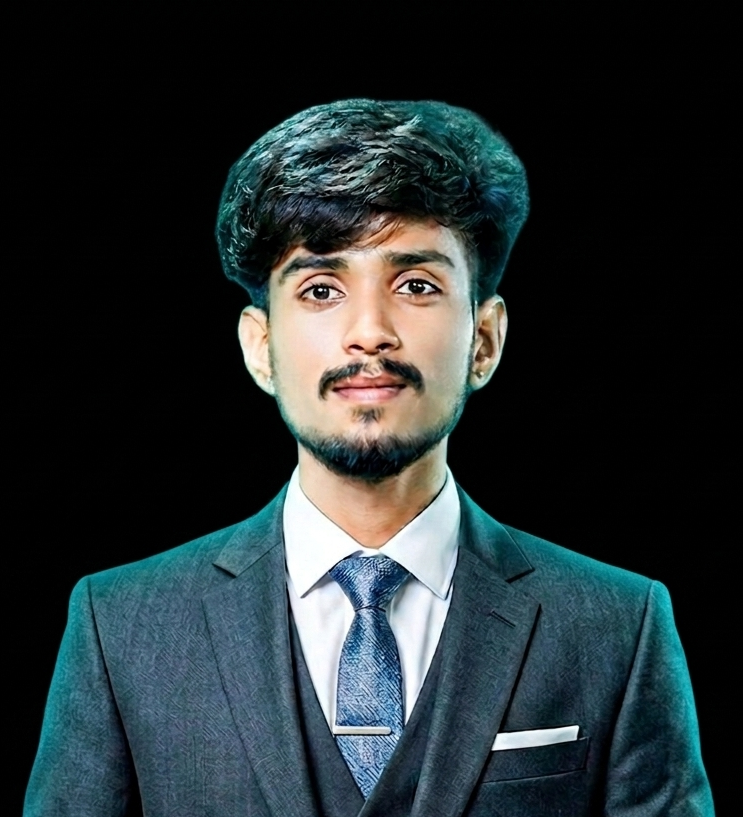
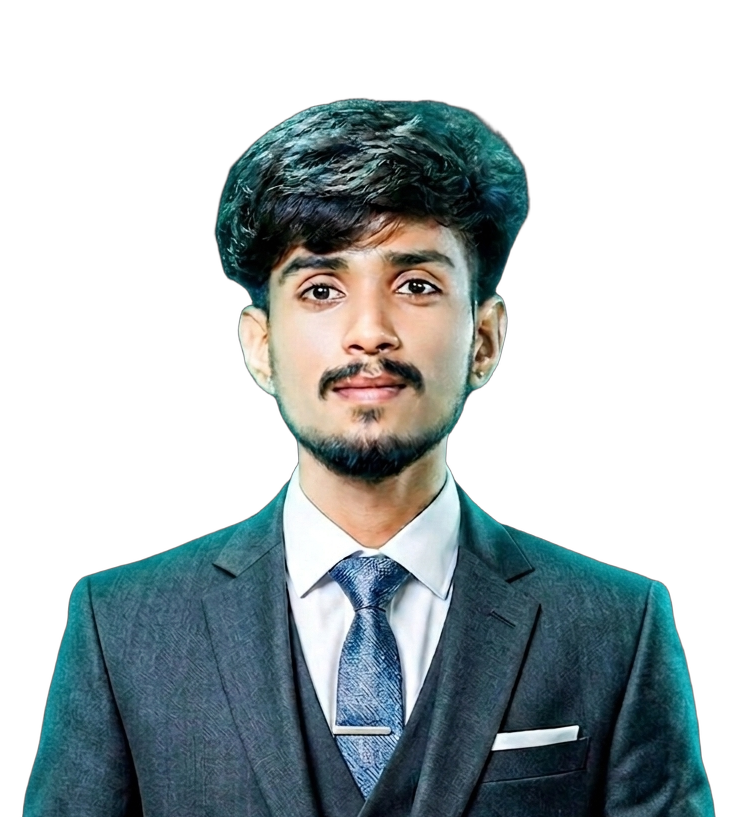
image bg remove

diff --git a/src/sections/Hero.jsx b/src/sections/Hero.jsx
@@ -3,8 +3,8 @@ import { Button } from "@/components/Button";
 import {
   ArrowRight,
   ChevronDown,
-  MessageCircle,
   Download,
+  Award,
 } from "lucide-react";
 import { FaSquareGithub } from "react-icons/fa6";
 import { FaLinkedin } from "react-icons/fa";
@@ -195,36 +195,47 @@ export const Hero = () => {
             </div>
           </div>
           {/* Right Column - Profile Image */}
-          <div className="relatice animate-fade-in animation-delay-300">
-            {/* Profile Image */}
-            <div className="relative max-w-md mx-auto">
-              <div
-                className="absolute inset-0 
-              rounded-3xl bg-gradient-to-br 
-              from-primary/30 via-transparent 
-              to-primary/10 blur-2xl animate-pulse"
-              />
-              <div className="relative glass rounded-3xl p-2 glow-border">
+          <div className="relative animate-fade-in animation-delay-300 flex justify-center items-center">
+            {/* Profile Image Container */}
+            <div className="relative w-full max-w-md mx-auto flex items-center justify-center">
+              {/* Ambient Glow Aura behind Harish */}
+              <div className="absolute w-[95%] h-[95%] rounded-full bg-gradient-to-tr from-primary/30 via-primary/10 to-transparent blur-3xl pointer-events-none -z-0 animate-pulse" />
+              <div className="absolute -inset-2 rounded-full bg-primary/10 blur-2xl pointer-events-none -z-0" />
+
+              {/* Cutout Image with seamless bottom fade into hero background */}
+              <div className="relative z-10 w-full flex justify-center">
                 <img
                   src="/harish-main.png"
                   alt="Harish Maru"
-                  className="w-full aspect-[4/5] object-cover rounded-2xl"
+                  className="w-full max-h-[520px] object-contain drop-shadow-[0_20px_40px_rgba(0,0,0,0.8)] drop-shadow-[0_0_35px_rgba(32,178,166,0.25)] hero-img-mask select-none pointer-events-none transition-transform duration-500 hover:scale-[1.02]"
                 />
+              </div>
 
-                {/* Floating Badge */}
-                <div className="absolute -bottom-4 -right-4 glass rounded-xl px-4 py-3 animate-float">
-                  <div className="flex items-center gap-3">
-                    <div className="w-3 h-3 bg-green-500 rounded-full animate-pulse" />
-                    <span className="text-sm font-medium">
-                      Available for work
-                    </span>
-                  </div>
+              {/* Right Side Badges - Clean, compact, and aligned at the bottom right of the image */}
+              <div className="absolute -right-2 sm:-right-6 bottom-3 sm:bottom-6 z-20 flex flex-col items-end gap-2">
+                {/* Available for Work Badge */}
+                <div className="glass rounded-xl px-3 py-1.5 border border-primary/30 shadow-[0_8px_20px_rgba(0,0,0,0.5)] animate-float backdrop-blur-md flex items-center gap-2">
+                  <span className="relative flex h-2 w-2">
+                    <span className="absolute inline-flex h-full w-full animate-ping rounded-full bg-emerald-400 opacity-75" />
+                    <span className="relative inline-flex rounded-full h-2 w-2 bg-emerald-500" />
+                  </span>
+                  <span className="text-xs font-medium text-foreground tracking-wide whitespace-nowrap">
+                    Available for work
+                  </span>
                 </div>
-                {/* Stats Badge */}
-                <div className="absolute -top-4 -left-4 glass rounded-xl px-4 py-3 animate-float animation-delay-500">
-                  <div className="text-2xl font-bold text-primary">1+</div>
-                  <div className="text-xs text-muted-foreground">
-                    Years Exp.
+
+                {/* 1+ Years Experience Badge (Compact & Sleek) */}
+                <div className="glass rounded-xl px-3 py-1.5 border border-primary/30 shadow-[0_8px_20px_rgba(0,0,0,0.5)] animate-float animation-delay-500 backdrop-blur-md flex items-center gap-2">
+                  <div className="w-5 h-5 rounded-md bg-primary/15 border border-primary/30 flex items-center justify-center text-primary shadow-[0_0_8px_rgba(32,178,166,0.3)]">
+                    <Award className="w-3 h-3 text-primary" />
+                  </div>
+                  <div className="flex items-baseline gap-1">
+                    <span className="text-xs sm:text-sm font-bold bg-gradient-to-r from-primary to-[#45ecd9] bg-clip-text text-transparent font-display">
+                      1+ Years
+                    </span>
+                    <span className="text-[10px] text-muted-foreground font-medium whitespace-nowrap">
+                      Exp.
+                    </span>
                   </div>
                 </div>
               </div>

diff --git a/src/components/TiltCard.jsx b/src/components/TiltCard.jsx
@@ -7,7 +7,7 @@ export const TiltCard = ({
   scale = 1.02,
   glare = true,
   glowBorder = true,
-  glowColor = "rgba(32, 178, 166, 0.4)", // or golden/primary glow
+  glowColor = "rgba(32, 178, 166, 0.35)", // Primary teal glow
   style = {},
   ...props
 }) => {
@@ -37,7 +37,7 @@ export const TiltCard = ({
       setTransform(
         `perspective(1000px) rotateX(${rotateX}deg) rotateY(${rotateY}deg) scale3d(${scale}, ${scale}, ${scale})`
       );
-      setGlarePosition({ x: xPct, y: yPct, opacity: 0.35 });
+      setGlarePosition({ x: xPct, y: yPct, opacity: 0.25 });
     },
     [maxTilt, scale]
   );
@@ -58,16 +58,17 @@ export const TiltCard = ({
       onMouseMove={handleMouseMove}
       onMouseEnter={handleMouseEnter}
       onMouseLeave={handleMouseLeave}
-      className={`relative rounded-2xl transition-all ${className}`}
+      className={`relative transition-all duration-300 ${className}`}
       style={{
         transform,
         transformStyle: "preserve-3d",
         transition: isHovered
           ? "transform 0.1s ease-out, box-shadow 0.3s ease-out, border-color 0.3s ease-out"
           : "transform 0.5s cubic-bezier(0.23, 1, 0.32, 1), box-shadow 0.5s ease-out, border-color 0.5s ease-out",
-        boxShadow: isHovered && glowBorder
-          ? `0 20px 40px -15px rgba(0, 0, 0, 0.7), 0 0 25px -5px ${glowColor}`
-          : undefined,
+        boxShadow:
+          isHovered && glowBorder
+            ? `0 20px 40px -15px rgba(0, 0, 0, 0.7), 0 0 25px -5px ${glowColor}`
+            : undefined,
         ...style,
       }}
       {...props}
@@ -75,25 +76,10 @@ export const TiltCard = ({
       {/* Glare / Spotlight Highlight Overlay */}
       {glare && (
         <div
-          className="pointer-events-none absolute inset-0 rounded-2xl z-20 transition-opacity duration-300 overflow-hidden"
+          className="pointer-events-none absolute inset-0 rounded-[inherit] z-20 transition-opacity duration-300 overflow-hidden"
           style={{
             opacity: glarePosition.opacity,
-            background: `radial-gradient(circle 280px at ${glarePosition.x}% ${glarePosition.y}%, rgba(255, 255, 255, 0.18), transparent 80%)`,
-          }}
-        />
-      )}
-
-      {/* Glowing Border effect when hovering */}
-      {glowBorder && (
-        <div
-          className="pointer-events-none absolute -inset-[1px] rounded-2xl z-10 transition-opacity duration-300 opacity-0 group-hover:opacity-100"
-          style={{
-            background: `radial-gradient(circle 350px at ${glarePosition.x}% ${glarePosition.y}%, rgba(245, 166, 35, 0.6), rgba(32, 178, 166, 0.5), transparent 70%)`,
-            mask: "linear-gradient(#fff 0 0) content-box, linear-gradient(#fff 0 0)",
-            WebkitMask: "linear-gradient(#fff 0 0) content-box, linear-gradient(#fff 0 0)",
-            maskComposite: "exclude",
-            WebkitMaskComposite: "xor",
-            padding: "1.5px",
+            background: `radial-gradient(circle 280px at ${glarePosition.x}% ${glarePosition.y}%, rgba(255, 255, 255, 0.15), transparent 80%)`,
           }}
         />
       )}
@@ -102,3 +88,4 @@ export const TiltCard = ({
     </div>
   );
 };
+

diff --git a/src/sections/Projects.jsx b/src/sections/Projects.jsx
@@ -17,7 +17,7 @@ export const Projects = () => {
   const displayProjects = filteredProjects.slice(0, 3);
 
   return (
-    <section id="projects" className="py-20 md:py-32 relative overflow-hidden">
+    <section id="projects" className="pt-8 pb-20 md:pt-12 md:pb-28 relative overflow-hidden">
       {/* Bg glows */}
       <div className="absolute top-1/4 right-0 w-96 h-96 bg-primary/5 rounded-full blur-3xl" />
       <div className="absolute bottom-1/4 left-0 w-64 h-64 bg-highlight/5 rounded-full blur-3xl" />

diff --git a/src/sections/About.jsx b/src/sections/About.jsx
@@ -29,7 +29,7 @@ const highlights = [
 
 export const About = () => {
   return (
-    <section id="about" className="py-20 md:py-32 relative overflow-hidden">
+    <section id="about" className="pt-16 pb-8 md:pt-24 md:pb-12 relative overflow-hidden">
       <div className="container mx-auto px-6 relative z-10">
         <div className="grid lg:grid-cols-2 gap-16 items-center">
           {/* Left Column */}

diff --git a/src/index.css b/src/index.css
@@ -72,6 +72,11 @@
       inset 0 0 20px color-mix(in srgb, var(--color-primary) 5%, transparent);
   }
 
+  .hero-img-mask {
+    -webkit-mask-image: linear-gradient(to bottom, #000 70%, transparent 100%);
+    mask-image: linear-gradient(to bottom, #000 70%, transparent 100%);
+  }
+
 }
 
 
